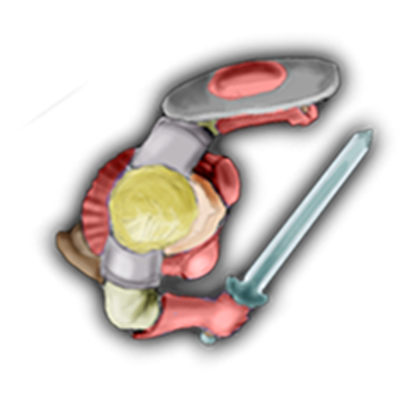
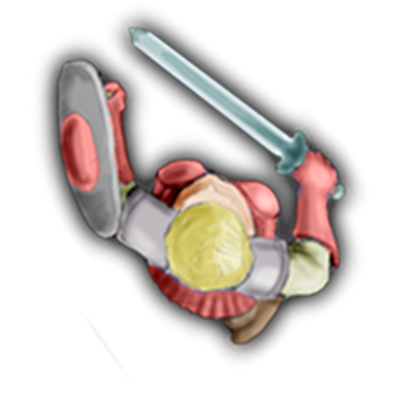
Mount view

diff --git a/src/Model/Level/GameModel.java b/src/Model/Level/GameModel.java
@@ -6,10 +6,7 @@ import Controller.Visitor.Visitor;
 import Model.AI.AIController;
 import Model.Command.EntityCommand.NonSettableCommand.TeleportEntityCommand;
 import Model.Entity.Entity;
-import View.LevelView.EntityView;
-import View.LevelView.ItemView;
-import View.LevelView.ObstacleView;
-import View.LevelView.TerrainView;
+import View.LevelView.*;
 import javafx.geometry.Point3D;
 import java.io.IOException;
 import java.util.ArrayList;
@@ -36,9 +33,9 @@ public class GameModel implements Visitable {
             currentLevel = new Level(new ArrayList<>());
             player = new Entity();
             currentLevel.addEntityTo(new Point3D(0, 0, 0), player);
-            currentLevel.addObserver(new EntityView(player));
+            currentLevel.addObserver(new EntityView(player, getPlayerPosition()));
             currentLevel.addObserver(new TerrainView(new Point3D(1, 1, -2), 75));
-            currentLevel.addObserver(new ItemView(new Point3D(-1, 0, 1)));
+            currentLevel.addObserver(new MountView(new Mount()));
             currentLevel.addObserver(new TerrainView(new Point3D(-1, 0, 1), 75));
 
     }

diff --git a/src/View/LevelView/EntityView.java b/src/View/LevelView/EntityView.java
@@ -14,20 +14,21 @@ public class EntityView extends LevelViewElement{
 
 
     private Entity entity;
-    private Orientation entityOrientation;
-    private Image entitySprite;
 
 
-    public EntityView(Entity entity) {
-        super(new Point3D(0, 0, 0));
+    public EntityView(Entity entity, Point3D location) {
+        super(location);
+        this.entity = entity;
         entity.addObserver(this);
+        setOrientation(entity.getOrientation());
+
         String workingDir = System.getProperty("user.dir");
 
         File file = new File(workingDir + "/src/View/Assets/warrior.png");
-        entitySprite = new Image(file.toURI().toString());
-        setSprite(entitySprite);
 
-        entityOrientation = entity.getOrientation();
+        setSprite(new Image(file.toURI().toString()));
+
+
 
 
 
@@ -35,7 +36,7 @@ public class EntityView extends LevelViewElement{
     }
     @Override
     public void notifyViewElement() {
-        entityOrientation = entity.getOrientation();
+        setOrientation(entity.getOrientation());
     }
 
 

diff --git a/src/View/LevelView/MountView.java b/src/View/LevelView/MountView.java
@@ -1,4 +1,29 @@
 package View.LevelView;
 
-public class MountView {
+import Model.Level.Mount;
+import javafx.geometry.Point3D;
+import javafx.scene.image.Image;
+
+import java.io.File;
+
+public class MountView extends LevelViewElement{
+    private Mount mount;
+    public MountView(Mount mount) {
+        super(new Point3D(1, -1, 0));
+
+        String workingDir = System.getProperty("user.dir");
+
+        File file = new File(workingDir + "/src/View/Assets/horse.png");
+
+        setSprite(new Image(file.toURI().toString()));
+    }
+    @Override
+    public void notifyViewElement() {
+
+    }
+
+    @Override
+    public int getRenderPriority() {
+        return 0;
+    }
 }

diff --git a/src/View/Renderer.java b/src/View/Renderer.java
@@ -1,6 +1,8 @@
 package View;
 
 import Model.Level.Level;
+import View.LevelView.HUDStatsView;
+import View.LevelView.HotbarView;
 import View.LevelView.LevelView;
 import View.MenuView.MenuView;
 import View.MenuView.TitleScreenView;
@@ -11,6 +13,7 @@ import javafx.scene.canvas.GraphicsContext;
 public class Renderer {
 
     private LevelView levelView;
+
     private MenuView menuView;
     private TitleScreenView titleScreenView;
 

diff --git a/src/Model/Entity/Entity.java b/src/Model/Entity/Entity.java
@@ -56,6 +56,7 @@ public class Entity {
         nonWeaponSkills = new ArrayList<>();
         observers = new ArrayList<>();
         hotBar = new ItemHotBar(this);
+        orientation = Orientation.NORTH;
     }
 
     public boolean isMoveable() {

diff --git a/src/View/LevelView/ItemView.java b/src/View/LevelView/ItemView.java
@@ -20,7 +20,7 @@ public class ItemView extends LevelViewElement{
         File file = new File(workingDir + "/src/View/Assets/sword.png");
 
         setSprite(new Image(file.toURI().toString()));
-        
+
 
 
 
